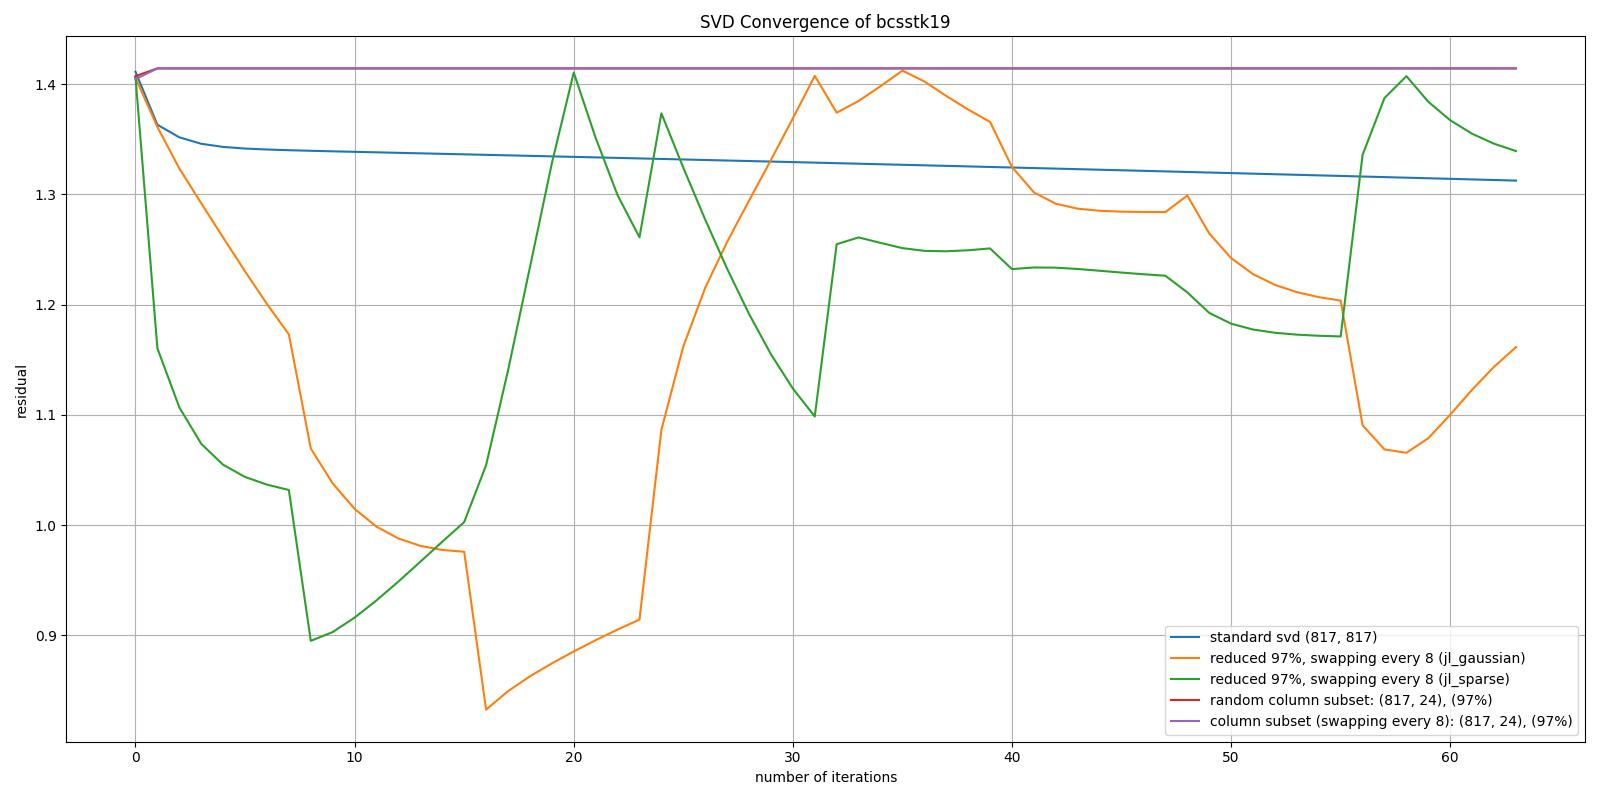
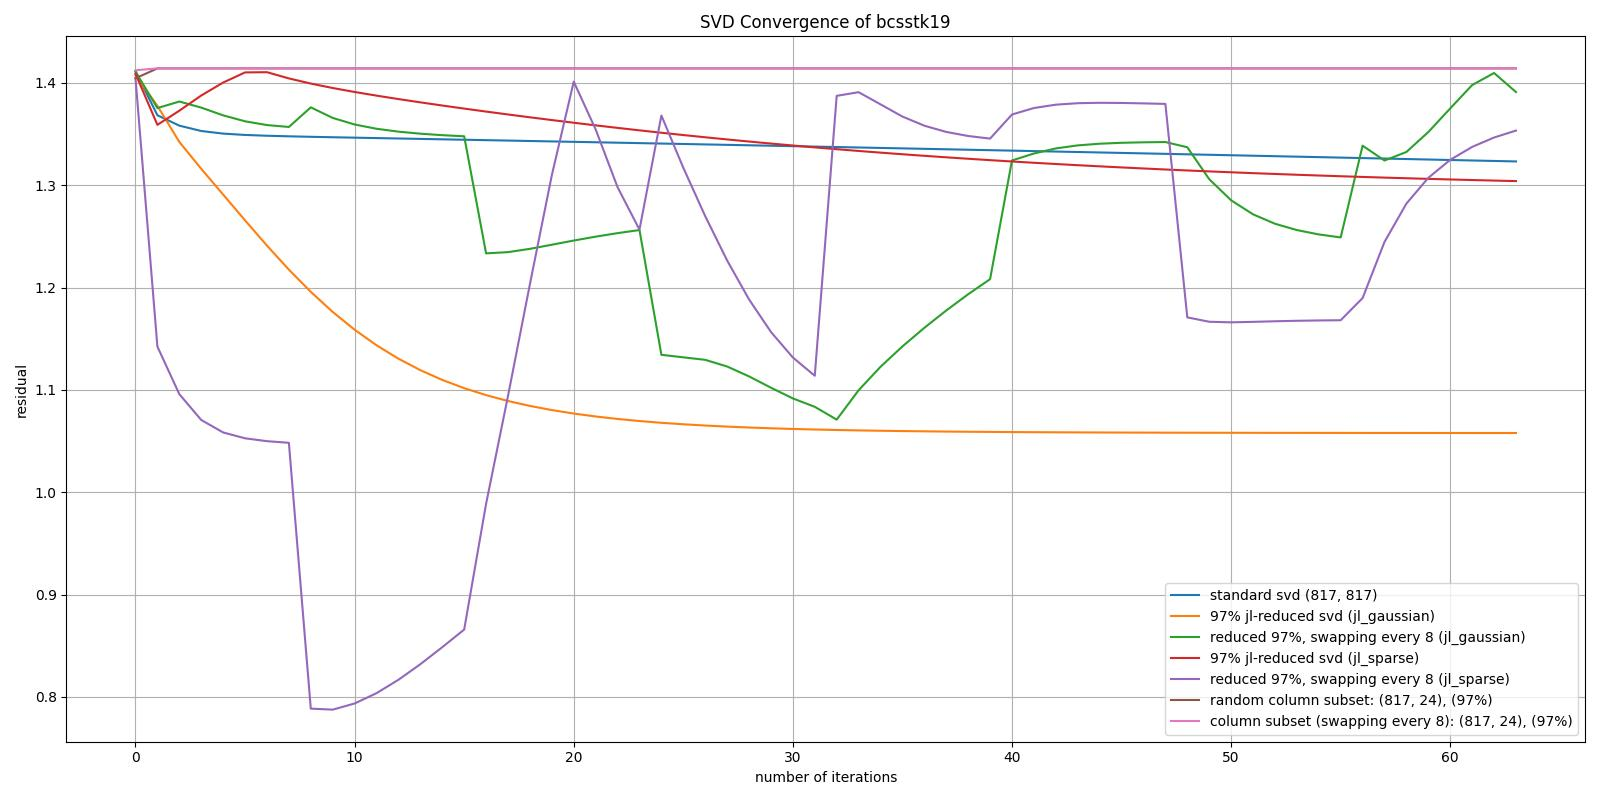
maybe better plots

diff --git a/src/svd.py b/src/svd.py
@@ -83,7 +83,7 @@ if __name__ == "__main__":
             for type in types:
                 args1 = {"p": p, "type" : type}
                 args2 = {"p": p, "step_size": step_size, "type" : type}
-                # test(jl_percent_reduced, plotter, mat, seed, num_avg, num_iter, args1)
+                test(jl_percent_reduced, plotter, mat, seed, num_avg, num_iter, args1)
                 test(multi_jl_p_reduce, plotter, mat, seed, num_avg, num_iter, args2)
             test(percent_subset_svd, plotter, mat, seed, num_avg, num_iter, {"p": p})
             if (mat == "impcol_d"):
